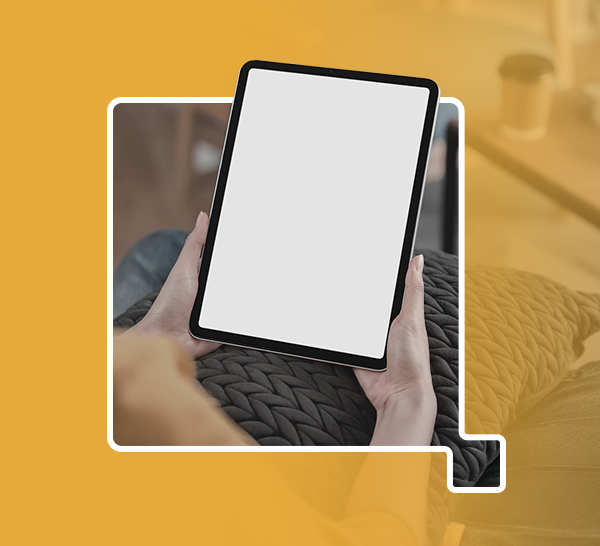
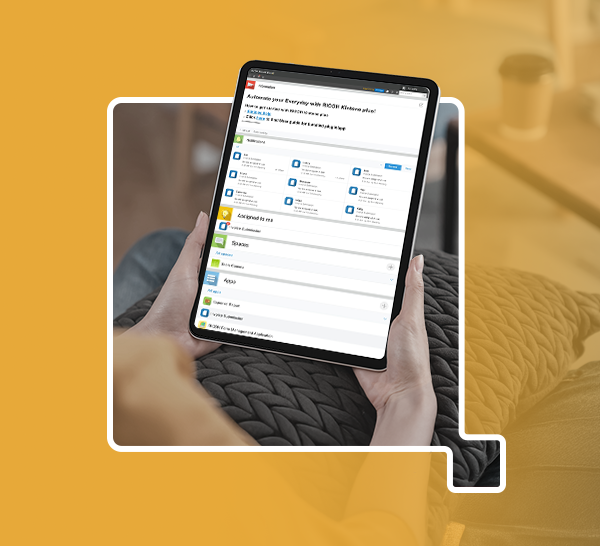
Refined kintone plus thumbnail with gradient

Changed region(s): [[0.3, 0.1245, 0.72, 0.6538]]

diff --git a/email/src/phase_6/524_-_eDM-Kintone-Plus/main-524-eDM.html b/email/src/phase_6/524_-_eDM-Kintone-Plus/main-524-eDM.html
@@ -64,24 +64,14 @@
         max-width: 100%;
       }
 
-      .mj-column-per-53 {
-        width: 53% !important;
-        max-width: 53%;
-      }
-
-      .mj-column-per-47 {
-        width: 47% !important;
-        max-width: 47%;
+      .mj-column-per-50 {
+        width: 50% !important;
+        max-width: 50%;
       }
 
       .mj-column-per-90 {
         width: 90% !important;
         max-width: 90%;
-      }
-
-      .mj-column-per-50 {
-        width: 50% !important;
-        max-width: 50%;
       }
     }
 
@@ -92,24 +82,14 @@
       max-width: 100%;
     }
 
-    .moz-text-html .mj-column-per-53 {
-      width: 53% !important;
-      max-width: 53%;
-    }
-
-    .moz-text-html .mj-column-per-47 {
-      width: 47% !important;
-      max-width: 47%;
+    .moz-text-html .mj-column-per-50 {
+      width: 50% !important;
+      max-width: 50%;
     }
 
     .moz-text-html .mj-column-per-90 {
       width: 90% !important;
       max-width: 90%;
-    }
-
-    .moz-text-html .mj-column-per-50 {
-      width: 50% !important;
-      max-width: 50%;
     }
 
   </style>
@@ -121,6 +101,18 @@
 
       td.mj-full-width-mobile {
         width: auto !important;
+      }
+    }
+
+  </style>
+  <style type="text/css">
+    @media screen and (max-width: 480px) {
+      .h1-header>div {
+        padding-top: 30px !important;
+      }
+
+      .img-header img {
+        padding-bottom: 30px !important;
       }
     }
 
@@ -214,28 +206,28 @@
                       </div>
                       <!--[if mso | IE]></td></tr></table></td></tr><![endif]-->
                       <!-- intro & thumbnail -->
-                      <!--[if mso | IE]><tr><td class="" width="600px" ><table align="center" border="0" cellpadding="0" cellspacing="0" class="" role="presentation" style="width:600px;" width="600" bgcolor="#e4a739" ><tr><td style="line-height:0px;font-size:0px;mso-line-height-rule:exactly;"><![endif]-->
-                      <div style="background:#e4a739;background-color:#e4a739;margin:0px auto;max-width:600px;">
-                        <table align="center" border="0" cellpadding="0" cellspacing="0" role="presentation" style="background:#e4a739;background-color:#e4a739;width:100%;">
+                      <!--[if mso | IE]><tr><td class="" width="600px" ><table align="center" border="0" cellpadding="0" cellspacing="0" class="" role="presentation" style="width:600px;" width="600" bgcolor="#e7a939" ><tr><td style="line-height:0px;font-size:0px;mso-line-height-rule:exactly;"><![endif]-->
+                      <div style="background:#e7a939;background-color:#e7a939;margin:0px auto;max-width:600px;">
+                        <table align="center" border="0" cellpadding="0" cellspacing="0" role="presentation" style="background:#e7a939;background-color:#e7a939;width:100%;">
                           <tbody>
                             <tr>
                               <td style="direction:ltr;font-size:0px;padding:0;text-align:center;">
-                                <!--[if mso | IE]><table role="presentation" border="0" cellpadding="0" cellspacing="0"><tr><td class="" style="vertical-align:middle;width:318px;" ><![endif]-->
-                                <div class="mj-column-per-53 mj-outlook-group-fix" style="font-size:0px;text-align:left;direction:ltr;display:inline-block;vertical-align:middle;width:100%;">
+                                <!--[if mso | IE]><table role="presentation" border="0" cellpadding="0" cellspacing="0"><tr><td class="" style="vertical-align:middle;width:300px;" ><![endif]-->
+                                <div class="mj-column-per-50 mj-outlook-group-fix" style="font-size:0px;text-align:left;direction:ltr;display:inline-block;vertical-align:middle;width:100%;">
                                   <table border="0" cellpadding="0" cellspacing="0" role="presentation" style="vertical-align:middle;" width="100%">
                                     <tbody>
                                       <tr>
-                                        <td align="left" style="font-size:0px;padding:10px 25px;word-break:break-word;">
+                                        <td align="left" class="h1-header" style="font-size:0px;padding:10px 25px;word-break:break-word;">
                                           <div style="font-family:Arial, san-serif;font-size:26px;font-weight:700;line-height:32px;text-align:left;color:#ffffff;">Automate Your Everyday</div>
                                         </td>
                                       </tr>
                                       <tr>
-                                        <td align="left" style="font-size:0px;padding:10px 25px;word-break:break-word;">
+                                        <td align="left" class="img-header" style="font-size:0px;padding:10px 25px;padding-right:0;word-break:break-word;">
                                           <table border="0" cellpadding="0" cellspacing="0" role="presentation" style="border-collapse:collapse;border-spacing:0px;">
                                             <tbody>
                                               <tr>
-                                                <td style="width:268px;">
-                                                  <img alt="" src="https://ricoh-email.2xcode.dev/phase_6/524_-_eDM-Kintone-Plus/images/RICOH-Kintone-Plus.png" style="border:0;display:block;outline:none;text-decoration:none;height:auto;width:100%;font-size:13px;" width="268" height="auto" />
+                                                <td style="width:275px;">
+                                                  <img alt="" src="https://ricoh-email.2xcode.dev/phase_6/524_-_eDM-Kintone-Plus/images/With-RICOH-kintone-plus-logo.png" style="border:0;display:block;outline:none;text-decoration:none;height:auto;width:100%;font-size:13px;" width="275" height="auto" />
                                                 </td>
                                               </tr>
                                             </tbody>
@@ -245,8 +237,8 @@
                                     </tbody>
                                   </table>
                                 </div>
-                                <!--[if mso | IE]></td><td class="" style="vertical-align:middle;width:282px;" ><![endif]-->
-                                <div class="mj-column-per-47 mj-outlook-group-fix" style="font-size:0px;text-align:left;direction:ltr;display:inline-block;vertical-align:middle;width:100%;">
+                                <!--[if mso | IE]></td><td class="" style="vertical-align:middle;width:300px;" ><![endif]-->
+                                <div class="mj-column-per-50 mj-outlook-group-fix" style="font-size:0px;text-align:left;direction:ltr;display:inline-block;vertical-align:middle;width:100%;">
                                   <table border="0" cellpadding="0" cellspacing="0" role="presentation" style="vertical-align:middle;" width="100%">
                                     <tbody>
                                       <tr>
@@ -254,9 +246,9 @@
                                           <table border="0" cellpadding="0" cellspacing="0" role="presentation" style="border-collapse:collapse;border-spacing:0px;" class="mj-full-width-mobile">
                                             <tbody>
                                               <tr>
-                                                <td style="width:282px;" class="mj-full-width-mobile">
+                                                <td style="width:300px;" class="mj-full-width-mobile">
                                                   <a href="https://www.ricoh.com/" target="_blank">
-                                                    <img alt="" src="https://ricoh-email.2xcode.dev/phase_6/524_-_eDM-Kintone-Plus/images/Kintone-Plus_Thumbnail.png" style="border:0;display:block;outline:none;text-decoration:none;height:auto;width:100%;font-size:13px;" width="282" height="auto" />
+                                                    <img alt="" src="https://ricoh-email.2xcode.dev/phase_6/524_-_eDM-Kintone-Plus/images/Kintone-Plus_Thumbnail.png" style="border:0;display:block;outline:none;text-decoration:none;height:auto;width:100%;font-size:13px;" width="300" height="auto" />
                                                   </a>
                                                 </td>
                                               </tr>
